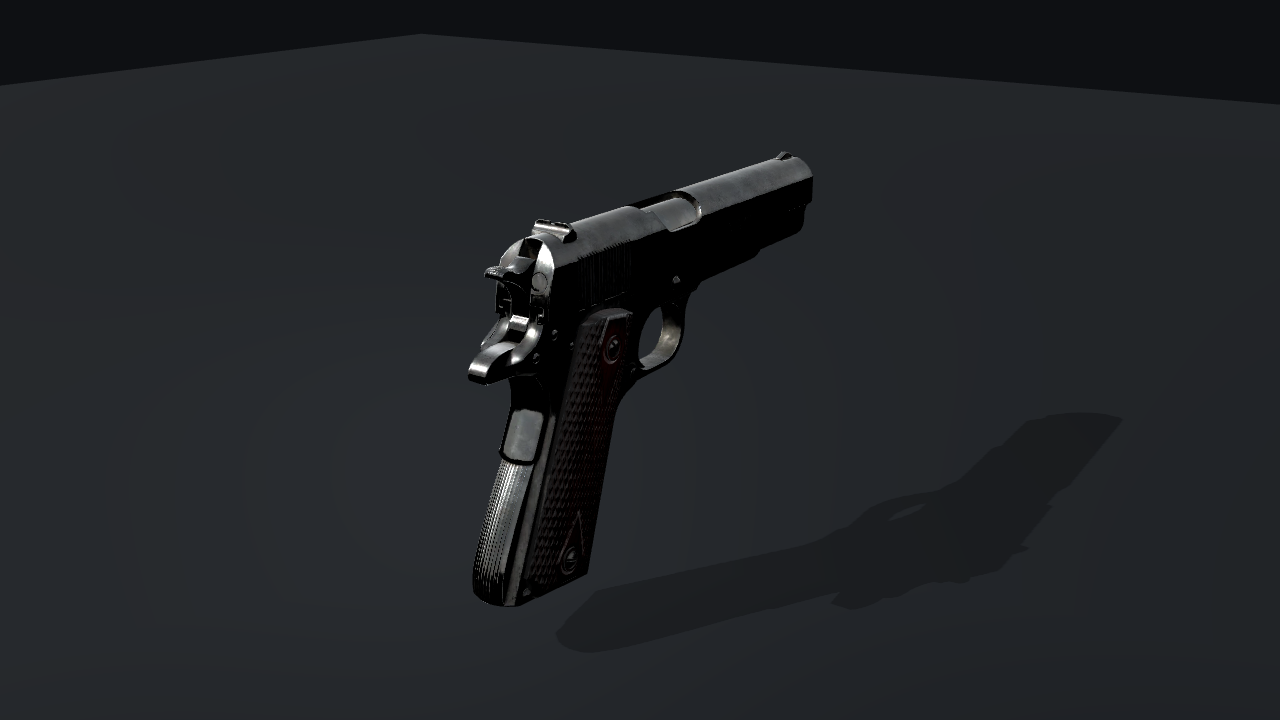
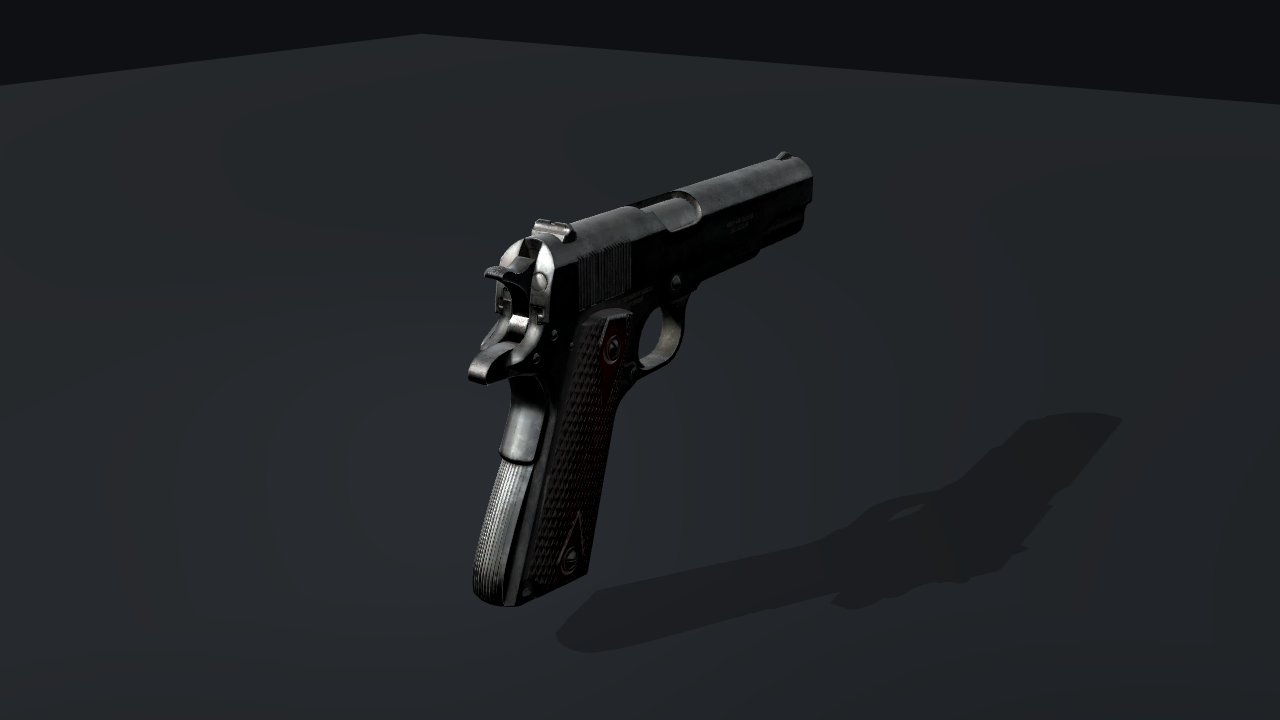
Tone down M1911 gloss with satin roughness and softer fill

diff --git a/tools/adapt_m1911_blender.py b/tools/adapt_m1911_blender.py
@@ -3,11 +3,13 @@
 Run with Blender 4.3 or later:
     blender --background --factory-startup --python tools/adapt_m1911_blender.py
 
-The source GLB contains the pistol only. This adapter preserves its materials,
-UVs and authored normals, bakes its existing node transforms, and exports the
-three separately animated exterior parts. It does not generate wear, add
-bevels, import arms, or change the mesh shape. Attribution and source license
-are recorded alongside the source asset and in the project's license files.
+The source GLB contains the pistol only. This adapter preserves its UVs,
+authored normals, base colors, occlusion and metalness, bakes its existing node
+transforms, and exports the three separately animated exterior parts. It remaps
+only the linear roughness channel for a worn satin finish, retaining the
+artist's local surface variation. It does not generate wear, add bevels, import
+arms, or change the mesh shape. Attribution and source license are recorded
+alongside the source asset and in the project's license files.
 """
 
 import argparse
@@ -15,6 +17,7 @@ from pathlib import Path
 import sys
 
 import bpy
+import numpy as np
 from mathutils import Matrix, Vector
 
 
@@ -45,6 +48,75 @@ def select_only(obj):
     bpy.context.view_layer.objects.active = obj
 
 
+def upstream_images(socket, visited=None):
+    """Find the imported packed ORM image feeding a roughness socket."""
+    visited = set() if visited is None else visited
+    images = {}
+    for link in socket.links:
+        node = link.from_node
+        identity = node.as_pointer()
+        if identity in visited:
+            continue
+        visited.add(identity)
+        if node.type == "TEX_IMAGE" and node.image is not None:
+            images[node.image.as_pointer()] = node.image
+        else:
+            for input_socket in node.inputs:
+                images.update(upstream_images(input_socket, visited))
+    return images
+
+
+def apply_satin_roughness(materials):
+    """Clone ORM maps and change G only; retain R/AO, B/metal and alpha."""
+    original_images = {}
+    for material in materials:
+        for node in material.node_tree.nodes:
+            if node.type == "BSDF_PRINCIPLED":
+                original_images.update(upstream_images(node.inputs["Roughness"]))
+    if len(original_images) != 2:
+        raise SystemExit(f"Expected two authored ORM maps, got {len(original_images)}")
+
+    replacements = {}
+    for identity, source in original_images.items():
+        if source.colorspace_settings.name != "Non-Color":
+            raise SystemExit(f"ORM must be linear data: {source.name}")
+        pixels = np.empty(len(source.pixels), dtype=np.float32)
+        source.pixels.foreach_get(pixels)
+        if pixels.size != source.size[0] * source.size[1] * 4:
+            raise SystemExit(f"Expected RGBA pixel buffer for {source.name}")
+        pixels = pixels.reshape(-1, 4)
+        before = pixels.copy()
+        roughness = np.clip(before[:, 1], 0.0, 1.0)
+        metalness = np.clip(before[:, 2], 0.0, 1.0)
+        metal_weight = np.clip((metalness - .25) / (.85 - .25), 0.0, 1.0)
+        metal_weight = metal_weight * metal_weight * (3.0 - 2.0 * metal_weight)
+        satin_metal = np.maximum(.34, np.sqrt(roughness))
+        oiled_wood = .08 + .92 * roughness
+        adjusted = oiled_wood + (satin_metal - oiled_wood) * metal_weight
+        # Quantize once to the same eight-bit data precision as the source.
+        pixels[:, 1] = np.floor(np.clip(adjusted, 0.0, 1.0) * 255.0 + .5) / 255.0
+        if not np.array_equal(pixels[:, (0, 2, 3)], before[:, (0, 2, 3)]):
+            raise SystemExit(f"Satin finish altered non-roughness channels: {source.name}")
+        image = bpy.data.images.new(source.name + "_satin_roughness",
+                                   width=source.size[0], height=source.size[1],
+                                   alpha=False, float_buffer=False, is_data=True)
+        image.colorspace_settings.name = "Non-Color"
+        image.file_format = "PNG"
+        image.pixels.foreach_set(pixels.ravel())
+        image.update()
+        image.pack()
+        replacements[identity] = image
+        print(f"SATIN {source.name}: linear G remapped; R/B/A retained")
+
+    # The imported AO and metallic/roughness nodes must share the same new map.
+    for material in materials:
+        for node in material.node_tree.nodes:
+            if node.type == "TEX_IMAGE" and node.image is not None:
+                replacement = replacements.get(node.image.as_pointer())
+                if replacement is not None:
+                    node.image = replacement
+
+
 def main():
     parser = argparse.ArgumentParser(description=__doc__)
     parser.add_argument("--source", type=Path, default=SOURCE)
@@ -66,6 +138,8 @@ def main():
         raise SystemExit(f"Expected only the three pistol exterior meshes; got {sorted(meshes)}")
     if any(obj.type == "ARMATURE" for obj in bpy.context.scene.objects):
         raise SystemExit("Gun-only source must not contain an armature")
+    materials = {material for obj in meshes.values() for material in obj.data.materials}
+    apply_satin_roughness(materials)
 
     # Capture the complete author hierarchy before detaching each mesh. The
     # native prop is twice game scale; the fixed offset puts its muzzle socket
@@ -110,7 +184,7 @@ def main():
         print(f"EXPORTED {path.name}: {len(obj.data.polygons)} triangles; "
               f"Godot bounds {minimum} .. {maximum}")
     print(f"Fitted source muzzle: {tuple(muzzle_godot)}")
-    print("Authored M1911 exterior adaptation complete; materials and topology retained.")
+    print("M1911 satin adaptation complete; only ORM roughness G changed, topology retained.")
 
 
 if __name__ == "__main__":

diff --git a/docs/MODEL-NOTES.md b/docs/MODEL-NOTES.md
@@ -1,17 +1,31 @@
 # M1911モデルの制作ノート
 
-銃の外観には、egorbelous（e.belous）制作の「M1911 pistol」を使用しています。部品ごとの形状と作者のPBR素材を取り込み、ゲーム用のスケールと配置へ調整しました。射撃・リロード・感度設定の処理、音声、手のモデル、射撃場は従来どおりです。
+銃の外観には、egorbelous（e.belous）制作の「M1911 pistol」を使用しています。部品ごとの形状と作者のPBR素材を取り込み、ゲーム用のスケールと配置へ調整しました。今回の更新では形状を保ち、鋭すぎる光沢を抑えるために出力素材の粗さと銃専用の補助ライトを調整しています。射撃・リロード・感度設定・Nキーの確認モーション、音声、手のモデル、射撃場は従来どおりです。
 
 提示された実物写真は見た目の方向性を確認する基準です。現在のモデルは作者の造形・表面表現に基づくため、写真の個体と細部や摩耗模様には差があります。
 
 ## 形状と素材
 
 - フレーム、スライド、マガジンの3つのGLBに分けています。木製グリップはフレーム側に含まれ、スライドとマガジンは既存の射撃・リロードの動きに対応します。
-- 部品に沿った摩耗、加工面の凹凸、暗い木製グリップの木目や細工を、作者のUV・法線・PBRマップを保って表示しています。
+- 部品に沿った摩耗、加工面の凹凸、暗い木製グリップの木目や細工を表示しています。形状・UV・ベースカラー・法線・AO・金属度は作者のデータを維持し、粗さだけを調整しています。
 - 銃全体は約1.1万三角形です。2組の素材にそれぞれ1024×1024のベースカラー・法線・粗さ／金属度用画像を使います。細部は形状と法線マップの両方で表現しており、極端な接写での鮮明さにはテクスチャ解像度による限界があります。
 - 同梱元モデルの腕・リグ・アニメーションを除去し、銃だけを使用しています。元データの2倍スケールを0.5倍にして、全長約216mmを基準にゲームへ配置しています。
 
+粗さは、同梱元モデルを変更せず、再出力用のORM画像のGチャンネル（線形の0〜1）に次の変換を適用します。
+
+- 金属：`max(0.34, sqrt(G))`
+- 木部などの非金属：`0.08 + 0.92 * G`
+- B（金属度）の `smoothstep(0.25, 0.85, B)` を重みにして両者を混合。
+
+これにより金属の粗さの中央値は約0.20から約0.45へ、木部は約0.48から約0.52へ変わります。一定値で塗りつぶさず、作者の摩耗による粗さの差を残します。ORMのR（AO）・B（金属度）とアルファ、ベースカラー画像・法線画像は変更しません。
+
+射撃場内では、`scenes/player.tscn` の銃専用ライト `ViewmodelFill` のエネルギーを1.4から0.9、スペキュラーを1.0から0.5へ変更し、強い白いハイライトを抑えています。通常の構えとNキーで見る左右の側面を比較し、刻印や部品の境界が読める設定にしています。手専用の補助ライトと射撃場の照明は変更していません。
+
 ## モデル単体の確認画像
+
+Nキーの確認モーションで、光沢を抑えた質感を確認できます。
+
+![銃の確認時のサテン仕上げ（実際のゲーム描画）](finish-preview.png)
 
 以下は実際のゲーム用モデルをGodotのスタジオ照明で描画した画像です。射撃場とは光源と背景が異なるため、ゲーム中の色や反射は[ゲーム画面](m1911-preview.png)で確認してください。
 
@@ -30,10 +44,10 @@
 
 ライセンス表記は、上記の再配布元READMEにある武器モデルの個別クレジットに基づきます。調査時は原作者の作品ページへアクセスできず、そのページでのライセンス再確認は行えていません。作者・出典・変更内容は配布ZIPにも含まれる[クレジット](../licenses/models/M1911.txt)に記載しています。
 
-採用した公開GLBは、元のメーカー表記とPBR素材が残る履歴版です。このプロジェクトでは銃以外のデータの除去、量子化された頂点情報の展開、WebPからPNGへの画素を保った変換、ゲーム用の位置・スケール調整、3つのGLBへの書き出しを行っています。元の刻印を保ち、画像の拡大や摩耗模様の追加は行っていません。
+採用した公開GLBは、元のメーカー表記とPBR素材が残る履歴版です。このプロジェクトでは銃以外のデータの除去、量子化された頂点情報の展開、WebPからPNGへの画素を保った変換、ゲーム用の位置・スケール調整、3つのGLBへの書き出しを行っています。さらに実行用モデルの粗さを上記の式で調整しています。同梱元データ、元の刻印、摩耗模様は保ち、画像の拡大や摩耗模様の追加は行っていません。
 
 ## 再出力
 
 リポジトリ直下で `python3 tools/build_m1911.py` を実行します。同梱した `tools/source_assets/m1911/m1911.glb` をBlenderで読み込み、ゲーム用のGLBとGodot用シーンを書き出します。素材の追加ダウンロードは不要です。
 
-書き出し後、`tools/share_m1911_textures.py` がGLB内の画像を変更せず抽出し、同一画像を共有ファイルにまとめます。元モデルの出典・変換履歴・ハッシュは[同梱元データの説明](../tools/source_assets/m1911/README.md)、制作環境は[READMEの再生成手順](../README.md#モデル素材を再生成する)を参照してください。
+粗さの調整は `tools/adapt_m1911_blender.py` が再出力時に適用します。書き出し後、`tools/share_m1911_textures.py` がそのGLB内の画像を変更せず抽出し、同一画像を共有ファイルにまとめます。元モデルの出典・変換履歴・ハッシュは[同梱元データの説明](../tools/source_assets/m1911/README.md)、制作環境は[READMEの再生成手順](../README.md#モデル素材を再生成する)を参照してください。

diff --git a/README.md b/README.md
@@ -22,11 +22,13 @@ Windows 10 / 11 の64bit版向けです。プレイにはGodotの導入、イン
 
 プレビューはCompatibilityのソフトウェア描画で撮影しています。
 
-今回の更新では、`N`で銃を手元に傾け、左右の側面を確認するモーションを追加しました。確認後は自動で構えに戻ります。射撃・照準・リロードの操作でも途中で終了できます。
+今回の更新では、現在の形状を保ったまま金属の粗さを調整し、鋭すぎる光沢を抑えました。傷・刻印・木目は保ち、金属らしさを残した鈍い反射にしています。銃専用の補助ライトも弱め、強い白いハイライトを抑えています。
+
+`N`で銃を手元に傾け、左右の側面を確認できます。確認後は自動で構えに戻ります。射撃・照準・リロードの操作でも途中で終了できます。
 
 ![Nキーによる銃の確認モーション（実際のゲーム描画）](docs/inspection-preview.gif)
 
-銃にはegorbelous（e.belous）制作の「M1911 pistol」モデルを使用しています。部品ごとの形状、加工面の凹凸、局所的な金属の摩耗、木製グリップの木目や細工を、作者のUVと刻印を含むPBRテクスチャを保って取り込んでいます。
+銃にはegorbelous（e.belous）制作の「M1911 pistol」モデルを使用しています。部品ごとの形状、加工面の凹凸、局所的な金属の摩耗、木製グリップの木目や細工を取り込み、ゲーム用の反射の粗さを調整しています。作者のUV・ベースカラー・法線・金属度は維持しています。
 
 以下は、形状と素材を確認するためにGodotのスタジオ照明で撮影したモデル単体の画像です。射撃場のゲーム画面とは照明が異なります。
 
@@ -42,7 +44,7 @@ Windows 10 / 11 の64bit版向けです。プレイにはGodotの導入、イン
 - 右クリックを押している間は照準を構えます（ADS）。
 - `N`で銃を傾け、外観を確認できます。弾数や得点は変わらず、モーション後は自動で構えに戻ります。射撃・照準・リロードで途中終了できます。
 - `Esc`でゲームを一時停止し、設定画面でマウス感度を10〜300%に調整できます。標準は100%で、変更はすぐに反映され、次回起動時にも引き継がれます。
-- 作者が部品ごとに作り込んだM1911モデルです。金属の擦れ・反射の違い、木製グリップの木目や細かな凹凸を確認できます。
+- 作者が部品ごとに作り込んだM1911モデルです。光沢を抑えた金属の擦れ・反射の違い、木製グリップの木目や細かな凹凸を確認できます。
 - 1マガジン7発。予備マガジンは無制限で、弾切れ後もリロードして試射を続けられます。
 - 初期位置の前方10m・15m・20mに配置した紙的に弾痕が残ります。壁や障害物は射線を遮ります。
 - 的の中心は10点、中の輪は7点、外の輪は4点、紙の端は1点。得点・発射数・命中数・命中率を表示します。
@@ -145,7 +147,7 @@ sh tools/check.sh
 
 ## モデル・素材を再生成する
 
-銃はCC BY 4.0のM1911モデルをゲーム用に変換したGLBです。作者の形状・UV・PBRテクスチャを使用しています。手のモデルと合成効果音はこのプロジェクトの制作物です。
+銃はCC BY 4.0のM1911モデルをゲーム用に変換したGLBです。作者の形状・UV・PBRテクスチャを使用し、再出力時に粗さだけを調整しています。手のモデルと合成効果音はこのプロジェクトの制作物です。
 モデル・テクスチャ・フォントは同梱しているため、プレイ時にBlenderやPythonを入れる必要はありません。
 
 銃を再出力する場合は、制作環境にBlender 4.3以降とPython 3を用意します。同梱元モデルを使うため、素材のダウンロード、アカウント登録、NumPy・Pillowの導入は不要です。日本語フォントを再生成する場合のみ、Noto Sans CJKの元フォントとfontToolsが必要です。
@@ -164,7 +166,7 @@ python3 tools/build_audio.py
 python3 tools/build_ui_font.py --source /path/to/NotoSansCJK-Regular.ttc
 ```
 
-`tools/build_m1911.py` は `tools/source_assets/m1911/m1911.glb` をBlenderで読み込み、実寸とゲーム内の配置へ変換してフレーム・スライド・マガジンの3つのGLBを書き出します。元のUV・法線・PBRテクスチャを保ち、既存の射撃・リロード用ノードに接続します。
+`tools/build_m1911.py` は `tools/source_assets/m1911/m1911.glb` をBlenderで読み込み、実寸とゲーム内の配置へ変換してフレーム・スライド・マガジンの3つのGLBを書き出します。同梱元データは変更せず、出力用のORM画像のG（粗さ）だけを調整します。形状・UV・ベースカラー・法線・AO・金属度を保ち、既存の射撃・リロード用ノードに接続します。粗さの変換式は[モデルノート](docs/MODEL-NOTES.md#形状と素材)に記載しています。
 書き出し後に `tools/share_m1911_textures.py` がPython標準ライブラリだけでGLB内の画像をバイト単位で取り出し、同一画像を `assets/textures/m1911_runtime/` に共有します。この共有工程では画像の再圧縮や形状の変更を行いません。出典・取り込み前の変換履歴は[元モデルの説明](tools/source_assets/m1911/README.md)を参照してください。
 日本語フォントはNoto Sans CJK JPを元にしたOFLのサブセットで、ライセンスは `licenses/fonts/NotoSansCJK.txt` に収録しています。
 

diff --git a/tools/source_assets/m1911/README.md b/tools/source_assets/m1911/README.md
@@ -20,6 +20,16 @@
 
 この同梱ファイルはまだ元データの2倍スケールです。`python3 tools/build_m1911.py` がBlenderで読み込み、0.5倍と位置調整を適用してフレーム・スライド・マガジンの3GLBへ書き出します。通常の再出力にはBlenderとPython 3のみが必要で、npmツールや元サイトへのアクセスは不要です。`tools/source_assets/.gdignore` により、この制作元データはGodotで直接インポートされません。
 
+## 実行用モデルの粗さ調整
+
+上記の元データ作成時の画素保持変換と、実行用モデルへの再出力は別の工程です。同梱した `m1911.glb` 自体は変更せず、`tools/adapt_m1911_blender.py` が出力用ORM画像のG（線形の粗さ）だけを調整します。
+
+- 金属：`max(0.34, sqrt(G))`
+- 木部などの非金属：`0.08 + 0.92 * G`
+- B（金属度）の `smoothstep(0.25, 0.85, B)` を重みにして混合。
+
+ORMのR（AO）・B（金属度）・アルファ、ベースカラー・法線画像、形状・UVは維持します。作者の摩耗の分布を残したまま鋭い光沢を抑える調整で、元画像の拡大や傷の追加は行いません。
+
 ## 記録したSHA-256
 
 | データ | サイズ | SHA-256 |
